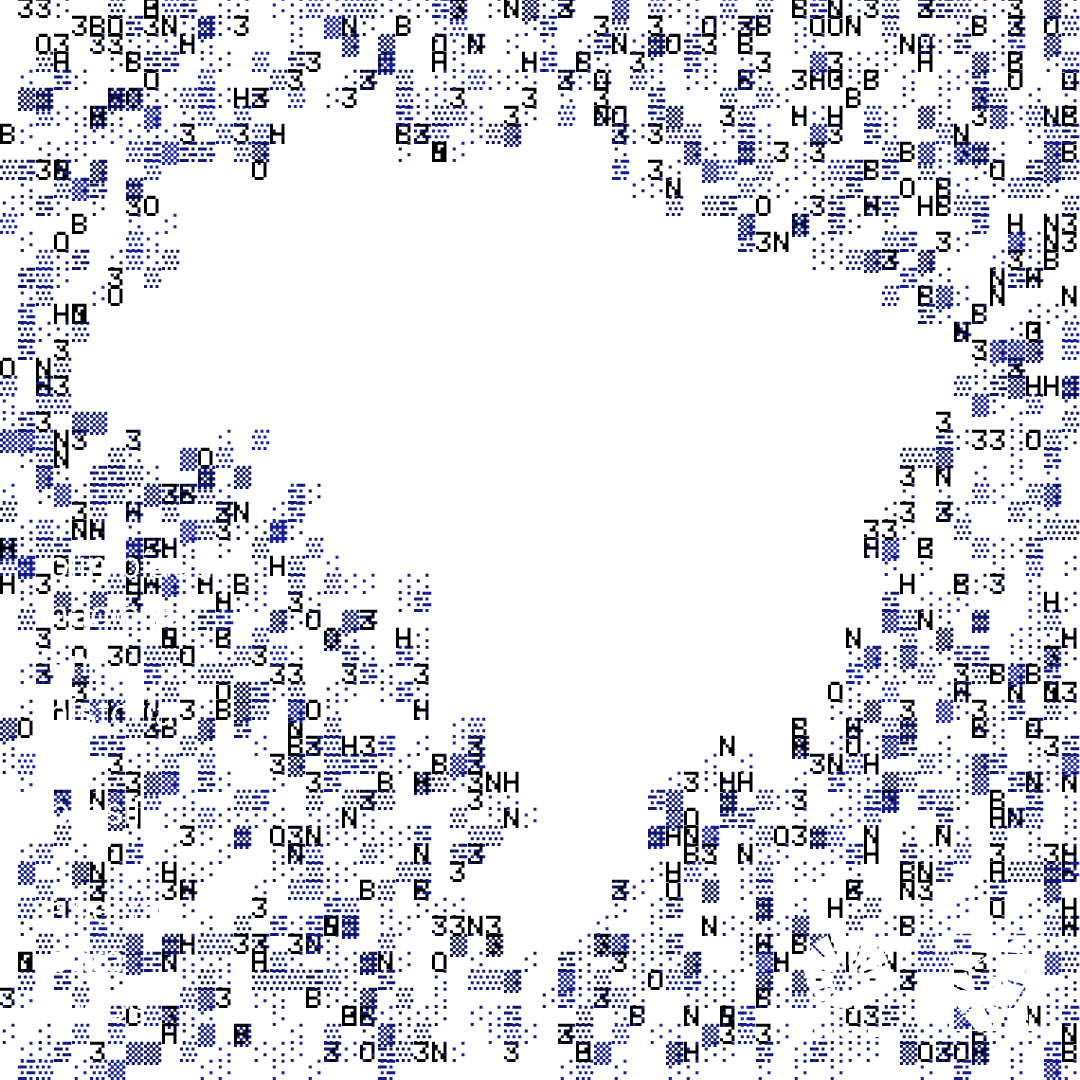
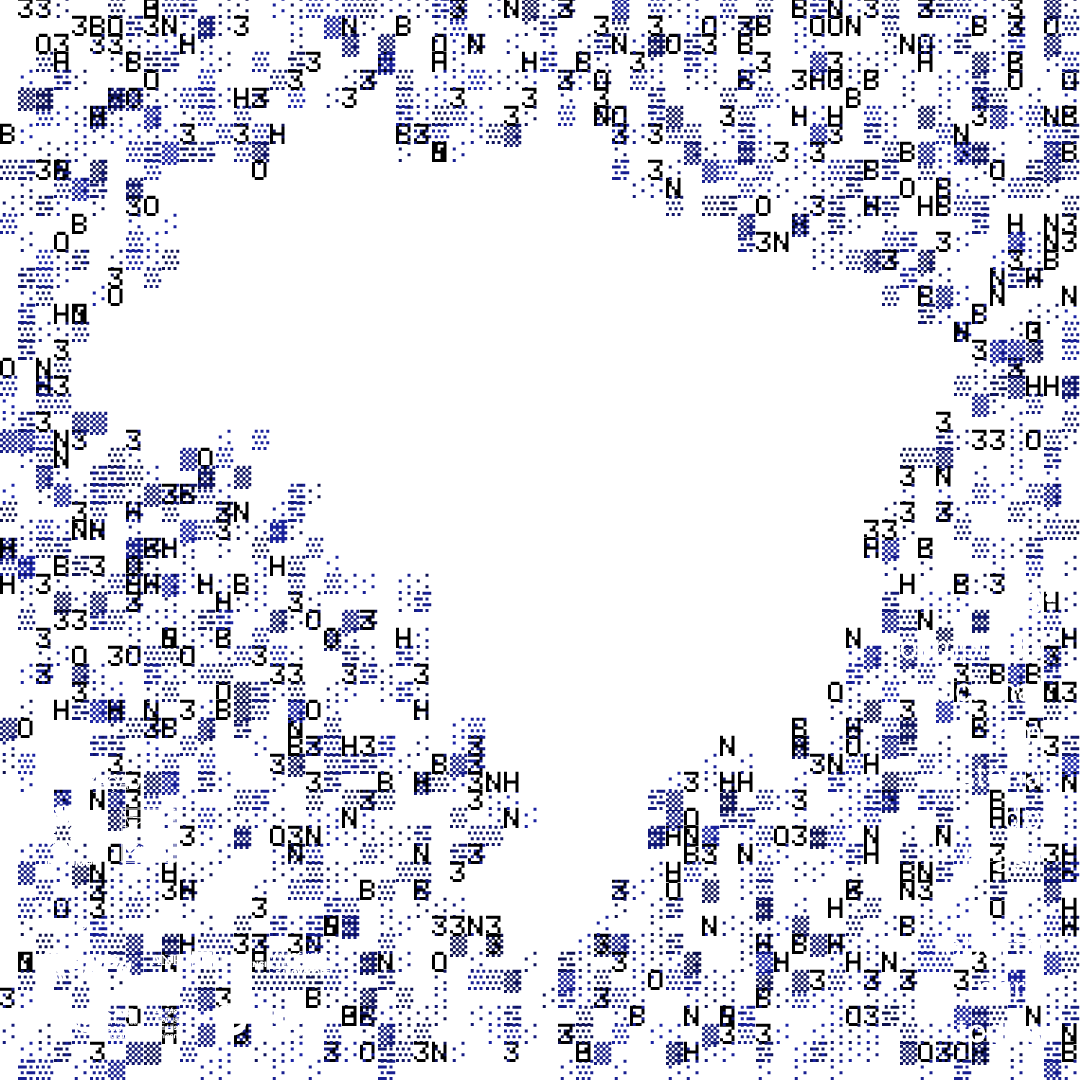
updates for onhb 16

diff --git a/index.html b/index.html
@@ -22,8 +22,9 @@
           <!-- <option value="onhb11">ONHB 11</option> -->
           <!-- <option value="onhb12" selected>ONHB 12</option> -->
 					<!-- <option value="onhba_2" selected>ONHB-A 2</option> -->
-					<option value="onhba_3" selected>ONHB-A 3</option>
+					<!-- <option value="onhba_3" selected>ONHB-A 3</option> -->
 					<!-- <option value="onhb14" selected>ONHB 14</option> -->
+					<option value="onhb16" selected>ONHB 16</option>
 					<!-- <option value="onhb13">ONHB 13</option> -->
 					<!-- <option value="onhba_1" selected>ONHB-A 1</option> -->
           <!-- <option value="onhb12_embaixadores">Embaixadores ONHB 12</option> -->

diff --git a/js/main.js b/js/main.js
@@ -76,6 +76,7 @@ function preload() {
     onhb12: [false, null],
     onhb13: [null, null],
     onhb14: [null, false],
+    onhb16: [null, false],
     onhba_1: [null, false],
     onhba_2: [null, null],
     onhba_3: [false, null],
@@ -113,8 +114,11 @@ function preload() {
   // loadImage("assets/onhba3-under.png", (img) => {
   //   brazil.onhba_3[0] = img;
   // });
-  loadImage("assets/onhba3-over.png", (img) => {
-    brazil.onhba_3[1] = img;
+  // loadImage("assets/onhba3-over.png", (img) => {
+  //   brazil.onhba_3[1] = img;
+  // });
+  loadImage("assets/onhba16-over.png", (img) => {
+    brazil.onhb16[1] = img;
   });
 }
 
